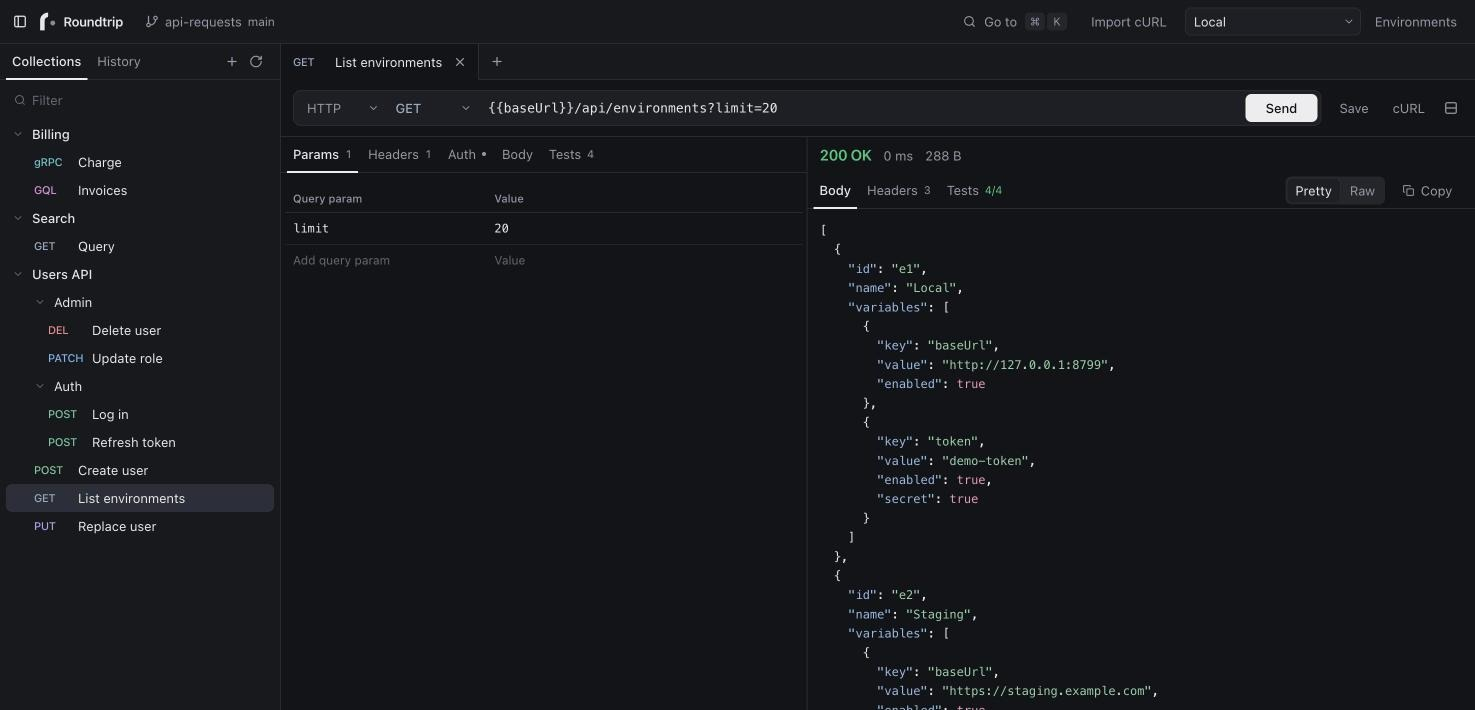
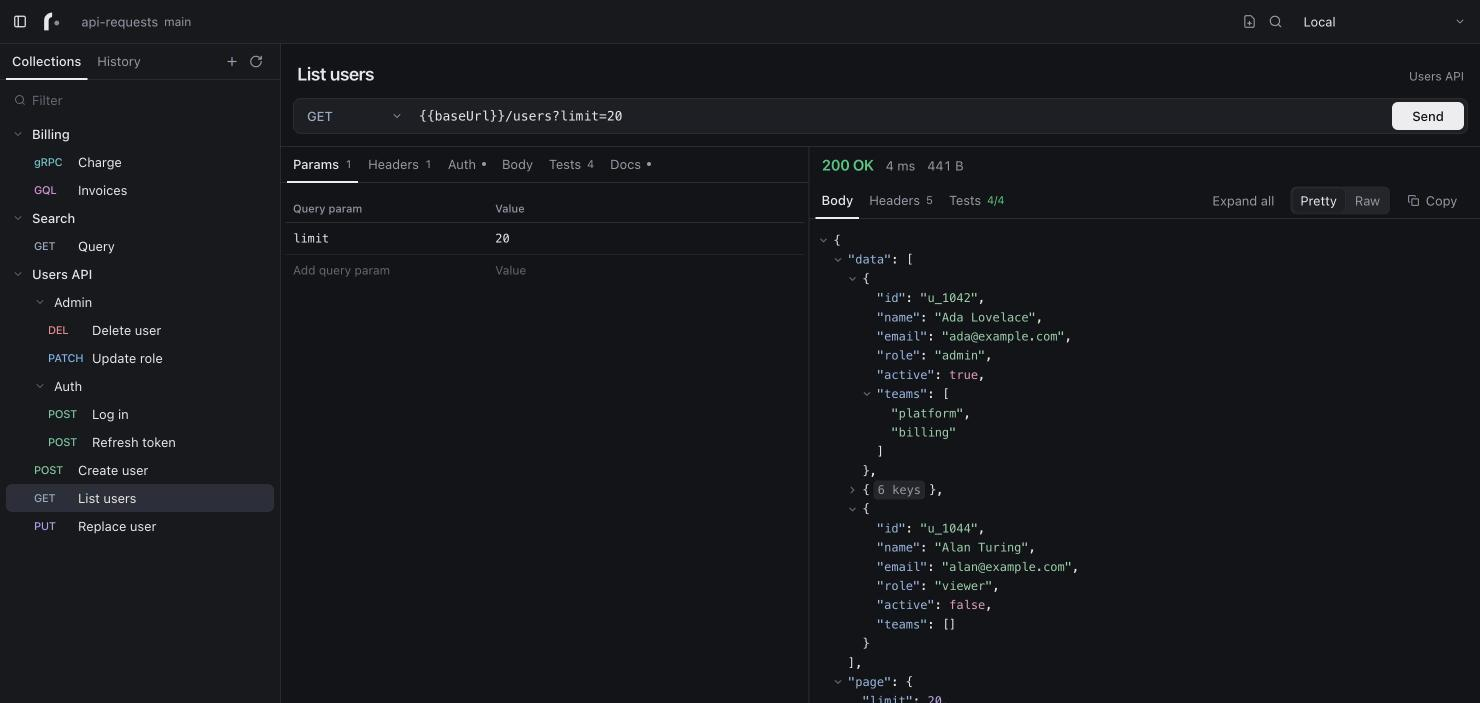
Update the README screenshot for the simplified interface
Shows a request headed by its name with no tab strip, the quieter header, and a JSON response with one object folded. Made with demo data only.

diff --git a/README.md b/README.md
@@ -24,7 +24,7 @@
 </p>
 
 <p align="center">
-  <img src="docs/images/app.jpg" alt="Roundtrip showing a collection tree, a request and its JSON response" width="900">
+  <img src="docs/images/app.jpg" alt="Roundtrip showing a collection tree, a request headed by its name, and its JSON response with one object folded" width="900">
 </p>
 
 ## Why we built it
